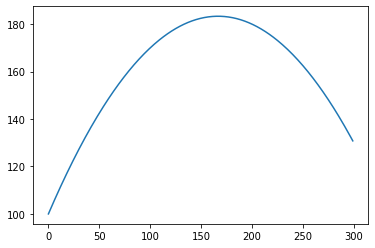
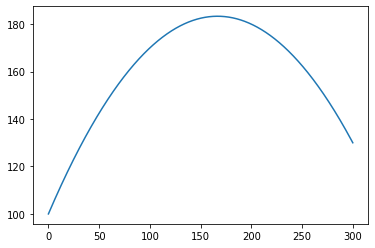
Improved trapezoidal estimation

diff --git a/docs/sympy_module.md b/docs/sympy_module.md
@@ -5,10 +5,8 @@ A module for symbolic math. In this short set of examples we will cover derivati
 
 
 ```python
-import glob
-import sympy
+import sympy as sp
 import numpy as np
-import pandas as pd
 import matplotlib.pyplot as plt
 
 ```
@@ -18,14 +16,14 @@ import matplotlib.pyplot as plt
 
 ```python
 # Define symbolic variables
-x = sympy.symbols('x')
+x = sp.symbols('x')
 
 ```
 
 
 ```python
 # First derivative (default, last function argument technically not needed)
-first_derivative = sympy.diff(5*x**2 + 2*x + 115, x, 1)
+first_derivative = sp.diff(5*x**2 + 2*x + 115, x, 1)
 first_derivative
 
 ```
@@ -40,7 +38,7 @@ $\displaystyle 10 x + 2$
 
 ```python
 # Second derivative
-second_derivative = sympy.diff(5*x**2 + 2*x + 115, x, 2)
+second_derivative = sp.diff(5*x**2 + 2*x + 115, x, 2)
 second_derivative
 
 ```
@@ -59,7 +57,7 @@ $\displaystyle 10$
 fun = lambda x: -0.003*x**2 + x + 100
 lower_xlim = 0
 upper_xlim = 300
-x = np.arange(lower_xlim,upper_xlim)
+x = np.linspace(lower_xlim, upper_xlim,1000)
 y = fun(x)
 
 plt.figure()
@@ -76,20 +74,21 @@ plt.show()
 
 ```python
 # Trapezoidal rule
-numerical_int = np.trapz(y)
+numerical_int = np.trapz(y, x)
 print(numerical_int)
 
 ```
 
-    47869.4515
+    47999.98647295944
 
 
 ## Analytical integration
 
 
 ```python
-x, y = sympy.symbols('x y')
-sympy.integrate(fun(x), x)
+# Indefinite integral
+x, y = sp.symbols('x y')
+sp.integrate(fun(x), x)
 
 ```
 
@@ -102,7 +101,8 @@ $\displaystyle - 0.001 x^{3} + 0.5 x^{2} + 100.0 x$
 
 
 ```python
-analytical_int = sympy.integrate(fun(x), (x,lower_xlim,upper_xlim))
+# Definite integral
+analytical_int = sp.integrate(fun(x), (x, lower_xlim, upper_xlim))
 print(analytical_int)
 
 ```
@@ -119,22 +119,5 @@ print(relative_error)
 
 ```
 
-    0.271976041666661
-
-
-
-```python
-sigmoid = lambda x: 1/(1+np.exp(-x))
-lower_xlim = -10
-upper_xlim = 10
-x = np.arange(lower_xlim,upper_xlim)
-y = sigmoid(x)
-
-plt.figure()
-plt.plot(x,y)
-plt.show()
-```
-
-
-![png](sympy_module_files/sympy_module_14_0.png)
+    2.81813344978824e-5
 
